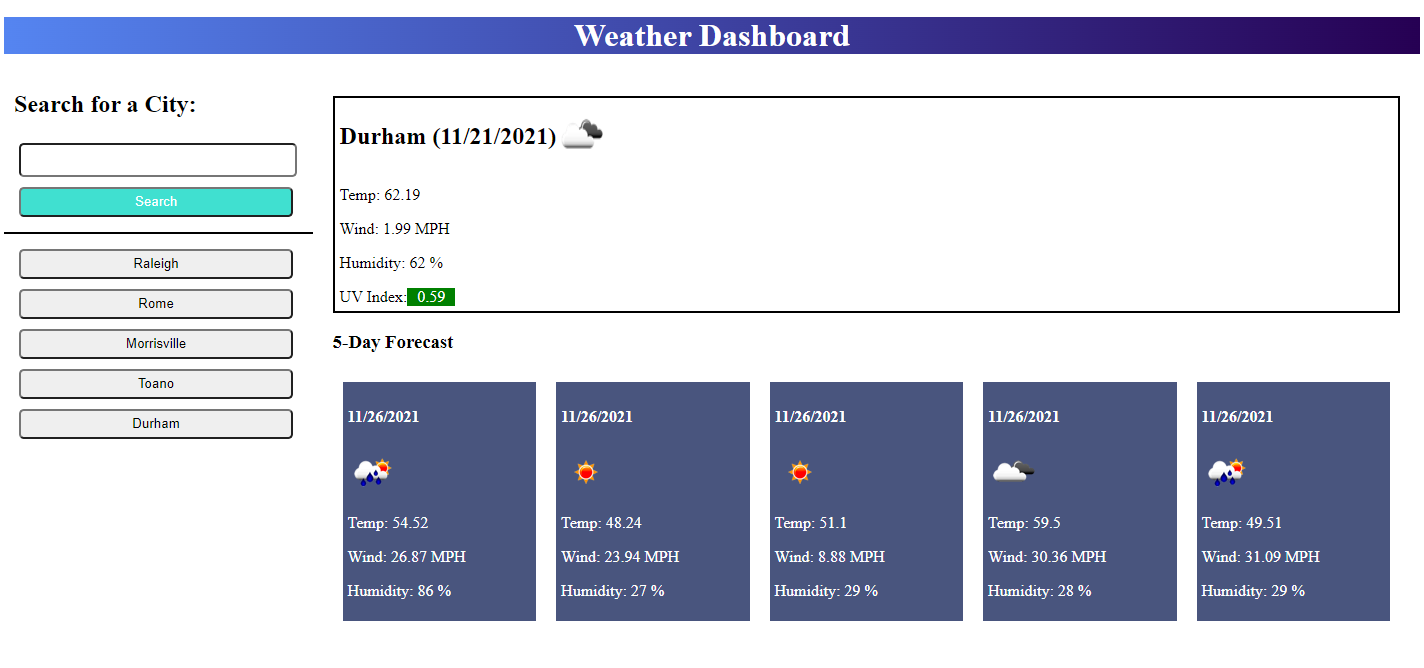
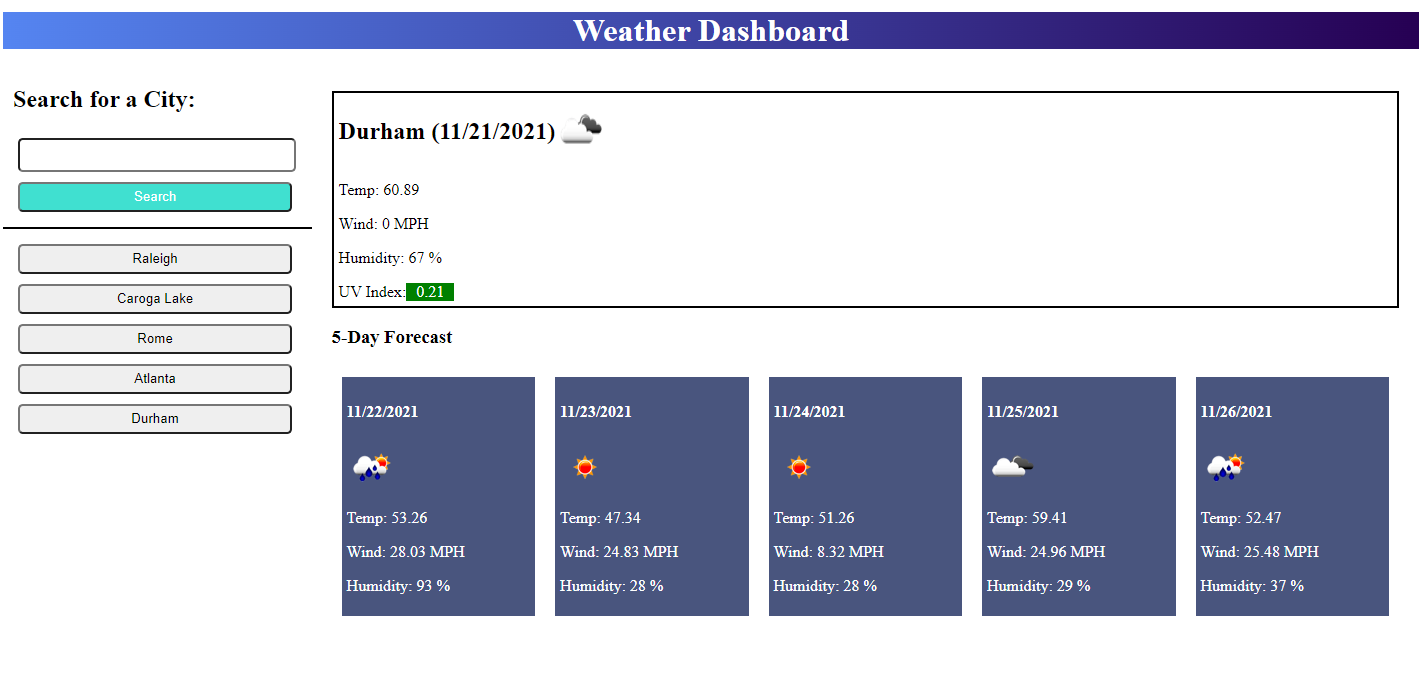
fixed dates

diff --git a/assets/js/script.js b/assets/js/script.js
@@ -95,20 +95,24 @@ var getDailyForecast = function(data) {
     // sets the date for the next 5 days
     var currentDayPlusOne = new Date();
     currentDayPlusOne.setDate(currentDayPlusOne.getDate() + 1);
+    document.querySelector('#day-1-date').textContent = currentDayPlusOne.toLocaleDateString();
+    
     var currentDayPlusTwo = currentDayPlusOne;
     currentDayPlusTwo.setDate(currentDayPlusTwo.getDate() + 1);
+    document.querySelector('#day-2-date').textContent = currentDayPlusTwo.toLocaleDateString();
+    
     var currentDayPlusThree = currentDayPlusTwo;
     currentDayPlusThree.setDate(currentDayPlusThree.getDate() + 1);
-    var currentDayPlusFour = currentDayPlusThree;
-    currentDayPlusFour.setDate(currentDayPlusFour.getDate() + 1);
-    var currentDayPlusFive = currentDayPlusFour;
-    currentDayPlusFive.setDate(currentDayPlusFive.getDate() + 1);
-
-    document.querySelector('#day-1-date').textContent = currentDayPlusOne.toLocaleDateString();
-    document.querySelector('#day-2-date').textContent = currentDayPlusTwo.toLocaleDateString();
     document.querySelector('#day-3-date').textContent = currentDayPlusThree.toLocaleDateString();
+    
+    var currentDayPlusFour = currentDayPlusOne;
+    currentDayPlusFour.setDate(currentDayPlusOne.getDate() + 1);
     document.querySelector('#day-4-date').textContent = currentDayPlusFour.toLocaleDateString();
+    
+    var currentDayPlusFive = currentDayPlusOne;
+    currentDayPlusFive.setDate(currentDayPlusOne.getDate() + 1);
     document.querySelector('#day-5-date').textContent = currentDayPlusFive.toLocaleDateString();
+
 
     // for each day sets the temp, wind speed, humidity, and weather icon in the html element on the page
     for (var i = 1; i < 6; i++) {
